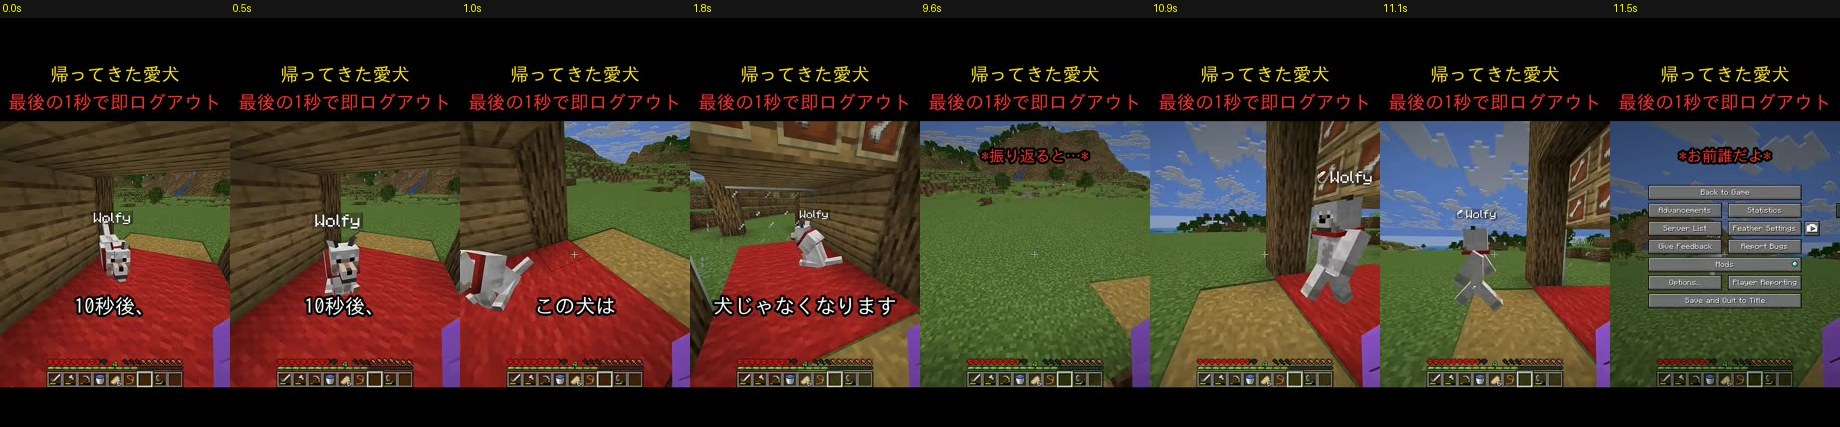
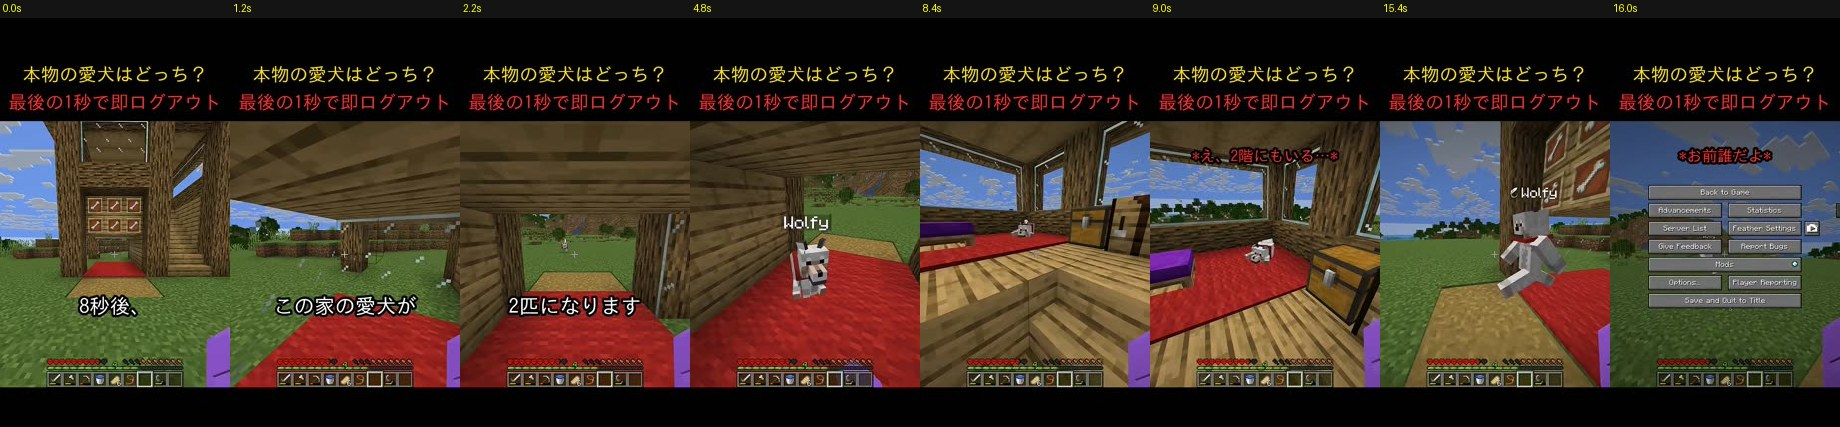
犬の動画：2段のオチ（2階にもう1匹）に合わせて、切らずにフックを作り直す
- 0秒から切らずに使う（外から来る・1階に座らせる・2階があるが見えないと1段目が伝わらない）
- ナレーション「8秒後、この家の愛犬が2匹になります。」（8.3秒に2匹目・8.65秒に重低音）
- 上部タイトル「本物の愛犬はどっち？／最後の1秒で即ログアウト」

Claude-Session: https://claude.ai/code/session_017tgZ3MWPtVU5p7tPVej3Ej

diff --git a/tools/dog_cut.py b/tools/dog_cut.py
@@ -6,12 +6,18 @@
 中身（元の秒）：
 - 0.0〜4.4  骨を飾った犬小屋に入り、外を見て犬を待つ（犬は2.4秒ごろ遠くに小さく出る）
 - 4.44     名札「Wolfy」の犬が入ってくる。4.6 で座らせる。4.7〜5.0 こちらを向いて座る
-- 8.25〜10.75 寝室。犬は赤いじゅうたんで寝ている
+- 7.4〜8.2  階段で2階へ（1階の犬は座ったまま）
+- 8.3〜10.75 2階のベッドの横に、もう1匹「Wolfy」が寝ている（本物）。8.65・9.7 に重低音
 - 12.5〜14.85 外に出て野原を見る → 14.85 振り返る
 - 15.30    犬が2本足で立ち上がり、人のように走って逃げる（叫び声のような音。BGM の和音もここで変わる）
 - 15.85    メニューを開いて「セーブしてタイトルへ」→ 16.15 タイトル画面で終わり
 
-BGM は約2.2秒ごとに和音が変わる（2.24・4.44・6.61・…・15.30）。4.44 から始めると、和音の頭から始まる。
+BGM は約2.2秒ごとに和音が変わる（2.24・4.44・6.61・…・15.30）。
+
+11/28 夜に直した（ユーザーの指摘「切ると展開が早すぎて状況が分からない」と、Gemini の指摘「2階にもう1匹いる」）：
+- **8.3秒、2階のベッドの横にもう1匹「Wolfy」が寝ている**（本物）。8.65秒と9.7秒に重低音（120Hz以下が約40dB上がる）
+- 15.30秒に2本足で立つのは、外から入ってきて1階に座らせた方（偽物）
+- 「外から来た犬を1階に座らせた」「2階がある」が分からないと1段目のオチが伝わらないので、0秒から切らずに使う
 """
 import sys
 
@@ -22,22 +28,24 @@ FADE = 0.0
 SHIFT_Y = 106   # 元の動画のゲーム画面は 216px から。上部タイトルの帯（0〜322px）に隠れないよう、下へずらす
 
 SEG = [
-    (4.44, 16.23, 1.0, '0秒：名札「Wolfy」の犬が入ってくる → 座らせる → 寝室 → 外へ → 振り返ると2本足で立って逃げる → 即セーブして終了'),
+    (0.0, 16.23, 1.0, 'そのまま：骨を飾った2階建ての犬小屋 → 外から犬が来る → 1階に座らせる → 2階にもう1匹（重低音）→ 外へ → 1階の方が2本足で立って逃げる → 即セーブして終了'),
 ]
 FREEZE = 0.0
 
-TOP = ('帰ってきた愛犬', '最後の1秒で即ログアウト')
+TOP = ('本物の愛犬はどっち？', '最後の1秒で即ログアウト')
 
 # （種類, 元の秒 or None, 新しい秒 or None, 文）
 LINES = [
-    ('ナレーション', None, (0.0, 2.4), '10秒後、この犬は犬じゃなくなります。'),
+    ('ナレーション', None, (0.0, 2.6), '8秒後、この家の愛犬が2匹になります。'),
+    # 1段目のオチ（2階にもう1匹・重低音）。2匹目だと分かるように一言だけ（Gemini 案の言い回し）
+    ('見出し', (8.65, 10.35), None, '*え、2階にもいる…*'),
     # 外を見ていて、振り返る直前。答え（15.30）の直前に「来るぞ」と知らせる。答えそのものには文字を重ねない
     ('見出し', (13.84, 15.24), None, '*振り返ると…*'),
     # メニューを開いた所でツッコミ（宝箱の「*マイクラに命捧げてて草*」と同じ、最後の一言）
     ('見出し', (15.85, 16.23), None, '*お前誰だよ*'),
 ]
 # 100万超えの3本とベリティは、ナレーションの字幕が全部白
-NARR_CHUNKS = [('10秒後、', 0.27, 'white'), ('この犬は', 0.25, 'white'), ('犬じゃなくなります', 0.48, 'white')]
+NARR_CHUNKS = [('8秒後、', 0.22, 'white'), ('この家の愛犬が', 0.40, 'white'), ('2匹になります', 0.38, 'white')]
 END = ''
 
 
@@ -68,5 +76,5 @@ if __name__ == '__main__':
             f.write('%d\n%s --> %s\n[%s] %s\n\n' % (i, fmt(s), fmt(e), kind, text))
     for s, e, kind, text in out:
         print('  %5.2f〜%5.2f  %-8s %s' % (s, e, kind, text))
-    for name, t in [('犬が入ってくる', 4.44), ('座ってこっちを見る', 4.8), ('寝室', 8.25), ('外へ', 12.5), ('振り返る', 14.85), ('2本足で立つ', 15.30), ('メニュー', 15.85), ('タイトル画面', 16.15)]:
+    for name, t in [('遠くに犬', 2.4), ('犬が入ってくる', 4.44), ('座らせる', 4.6), ('階段', 7.4), ('2階にもう1匹', 8.3), ('重低音', 8.65), ('外へ', 13.1), ('振り返る', 14.85), ('2本足で立つ', 15.30), ('メニュー', 15.85), ('タイトル画面', 16.15)]:
         print('  %s：新 %.2f秒' % (name, to_new(t)))

diff --git a/docs/dog/plan.md b/docs/dog/plan.md
@@ -1,45 +1,43 @@
-# 犬の動画（That was not my dog）：フックと作り方（2026-11-28）
+# 犬の動画（That was not my dog）：フックと作り方（2026-11-28・夜に直した版）
 
-元の動画：16.2秒・720×1280・60fps。話し声はない（Whisper で拾えたのは雑音だけ）。上の黒帯に、元の作者の英語の字幕「That was not my dog」（not だけ赤）が焼き込まれている。
+元の動画：16.2秒・720×1280・60fps。話し声はない。上の黒帯に、元の作者の英語の字幕「That was not my dog」（not だけ赤）が焼き込まれている。
+
+> **直した理由**
+> - 前の版（4.44秒から始める・「10秒後、この犬は犬じゃなくなります」）は、**2階にもう1匹いる（1段目のオチ）を見落としていた**（Gemini の指摘で確かめた）
+> - ユーザーの指摘「切ると展開が早すぎて状況が分からない」も正しかった。2段のオチは「外から来た犬を1階に座らせた」「家に2階がある」が見えていないと伝わらない
 
 ---
 
-## 1. 中身（元の秒）
+## 1. 中身（元の秒）：オチが2段ある
 
 | 秒 | 画 | 音 |
 |---|---|---|
-| 0.0〜1.0 | 骨を6本飾った犬小屋に入る | 足音。BGM（ゆっくりした和音・約2.2秒ごとに変わる） |
-| 1.6〜4.0 | 戸口から外を見て待つ。2.4秒ごろ、遠くに犬が小さく見える | |
-| **4.44** | **名札「Wolfy」の犬が入ってくる**（和音が変わる所） | |
-| 4.6 | 腕を振る（座らせる） | |
-| 4.7〜5.0 | 犬がこちらを向いて座る | |
-| 5.1〜8.0 | 部屋を見回す。壁に骨 | |
-| 8.25〜10.75 | 寝室。犬は赤いじゅうたんで寝ている | 8.65〜10.4 に、ドアか箱のような音 |
-| 11.0〜12.25 | ベッド | |
-| 12.5〜14.85 | 外に出て、野原を見る | |
-| 14.85〜15.25 | 振り返る | |
-| **15.30** | **犬が2本足で立ち上がり、人のように走って逃げる** | **叫び声のような大きい音**（この動画で一番大きい）。和音もここで変わる |
-| **15.85** | メニューを開いて「セーブしてタイトルへ」 | |
-| 16.10〜16.23 | 「Saving world」→ タイトル画面で終わり | |
+| 0.0〜1.0 | **骨を6本飾った2階建ての犬小屋**（右に2階への階段）に入る | BGM（約2.2秒ごとに変わる和音） |
+| 1.6〜4.4 | 戸口から外を見て待つ。2.4秒ごろ遠くに犬が見え、近づいてくる | |
+| 4.44〜5.0 | 名札「Wolfy」の犬が入ってくる。4.6 で**座らせる**（1階に残る） | |
+| 5.0〜7.3 | 1階を見回す。犬は骨の壁の前に座ったまま | |
+| 7.4〜8.2 | 階段で2階へ | |
+| **8.3** | **2階のベッドの横に、もう1匹「Wolfy」が寝ている**（本物） | |
+| **8.65・9.7** | （同じ画） | **重低音**（120Hz以下が約40dB上がる。元の作者が入れた） |
+| 11.0〜13.1 | 2階の出口から外へ | |
+| 13.25〜14.85 | 野原を見る → 14.85 振り返る | |
+| **15.30** | **1階に座らせた方（外から来た方）が、2本足で立って人のように逃げる**（偽物） | **叫び声のような音**（一番大きい）。和音もここで変わる |
+| 15.85〜16.23 | 即メニュー →「セーブしてタイトルへ」→ タイトル画面 | |
 
-**オチは最後の1秒**：犬だと思っていたものが2本足で立って逃げ、プレイヤーは即ゲームをやめる。
+1段目：2匹いる（8.3秒）→ 2段目：外から来た方は犬じゃなかった（15.3秒）→ 即ログアウト
 
 ---
 
-## 2. 切り方：元の 4.44秒から始める（途中は切らない）
+## 2. 切り方：切らない（0秒から16.2秒まで、そのまま）
 
-| | 0秒から（そのまま） | **4.44秒から** |
-|---|---|---|
-| 0秒の画 | 骨を飾った犬小屋。顔も異常もない | **名札「Wolfy」の犬が入ってくる**。0.3秒で座ってこちらを見る |
-| 「この犬」と言う時、犬が見えるか | 見えない（2.4秒まで犬がいない） | 見える |
-| 長さ | 16.2秒 | **11.8秒**（宝箱 11.1秒 174.9% と同じくらい） |
-| 音のつなぎ | — | 和音の頭（4.44）から始まるので自然 |
-| オチまで | 15.3秒 | **10.9秒** |
+| 始める所 | 0秒の画 | 2段のオチが分かるか | 約束までの待ち |
+|---|---|---|---|
+| **0秒（そのまま）** | 骨を飾った2階建ての犬小屋。階段も見える | ◎ 外から来るところ・1階に座らせるところ・2階が全部見える | 8.3秒（ベリティは「5秒後」→ 実際は7.0秒で、視聴を継続 81.4%） |
+| 3.75秒 | 戸口に小さく犬 | ○ 外から入ってくるのは見える。家の外観と2階は見えない | 4.6秒 |
+| 4.44秒（前の案） | 名札の犬（一番強い顔） | △ 入ってくる瞬間しか見えず、2階の犬が「別の犬」だと分かりにくい | 3.9秒 |
 
-- 骨を飾った壁は、あとの 1.8〜2.6秒と、オチの 10.9秒（立った犬の後ろ）に映るので、話は分かる
-- 途中は切らない（ユーザーの方針どおり）。終わりもタイトル画面までそのまま
-
-新しい秒の流れ：0.0 犬が入ってくる → 0.36 座ってこちらを見る → 3.8 寝室 → 8.1 外へ → 10.4 振り返る → **10.86 2本足で立つ** → 11.41 メニュー → 11.71 タイトル画面 → 11.79 終わり
+- 4.44秒からは、最初の1秒は一番強いが、2段のオチが伝わりにくくなる。オチが伝わらないと、ループもコメントも生まれない
+- 0秒の画は顔がないが、骨を並べた犬小屋は「変わった家」で目に留まる。しかも2階への階段が写っていて、1段目のオチの前振りになる
 
 ---
 
@@ -49,62 +47,69 @@
 
 | | 中身 |
 |---|---|
-| **ナレーション** | **10秒後、この犬は犬じゃなくなります。**（17字・2.4秒前後。字幕は「10秒後、」「この犬は」「犬じゃなくなります」全部白） |
-| **上部タイトル** | **帰ってきた愛犬**（黄）／**最後の1秒で即ログアウト**（赤） |
+| **ナレーション** | **8秒後、この家の愛犬が2匹になります。**（17字・2.6秒前後。字幕は「8秒後、」「この家の愛犬が」「2匹になります」全部白） |
+| **上部タイトル** | **本物の愛犬はどっち？**（黄）／**最後の1秒で即ログアウト**（赤） |
 
-- 「10秒後」→ 実際は 10.86秒に立ち上がる（0.86秒遅れ。宝箱は1.9秒、ベリティは2秒遅れ）
-- 「最後の1秒」→ 10.86〜11.79秒（立ち上がり〜タイトル画面）
+- 「8秒後」→ 8.3秒に2匹目が映り、8.65秒に重低音。**秒どおり**
+- 「最後の1秒」→ 15.30秒（立つ）〜16.23秒（タイトル画面）
 
-### 3-2. ナレーションの候補の採点（`docs/noads/hook_check.md` の A〜H）
+### 3-2. ナレーションの採点（`docs/noads/hook_check.md` の A〜H）
 
-| 候補 | A 0秒の画 | B 1秒で通じる | C 絞らない | D 主語 | E 短い約束 | F 答えを言わない | G 短い | H おかしさ | 計 |
+| 候補 | A 0秒の画 | B 1秒 | C | D 主語 | E 約束 | F 答え | G 長さ | H おかしさ | 計 |
 |---|---|---|---|---|---|---|---|---|---|
-| **10秒後、この犬は犬じゃなくなります。** | ○ | ○ | ○ | ○ | △（10秒。守られる） | ○ | ○ 17字 | ○（犬が犬じゃなくなる） | **7.5** |
-| この犬、犬じゃありません。 | ○ | ◎（1秒で矛盾が伝わる） | ○ | ○ | × | ○ | ◎ 11字 | ○ | 7 |
-| 10秒後、この犬の正体に鳥肌が立ちます。（宝箱の型） | ○ | ○ | ○ | ○ | △ | ○ | ○ 18字 | △（よくある言い方） | 6.5 |
-| この犬、10秒後に正体を現します。 | ○ | ○ | ○ | ○ | △ | ○ | ○ | △ | 6.5 |
-| この犬、うちの犬じゃありません。（元の字幕の訳） | ○ | ○ | ○ | ○ | × | ○ | ○ | △ | 6 |
+| **8秒後、この家の愛犬が2匹になります。** | △（顔なし。変わった家） | ○ | ○ | ○（この家＝0秒に映っている家） | ○（中身が具体的で、秒どおり） | ○（どっちが偽物か・2本足は言わない） | ○ 17字 | ○（犬が2匹になる） | **7.5** |
+| 8秒後、この愛犬のせいで背筋が凍ります。（Gemini） | △ | ○ | ○ | △（犬が映るのは2.4秒から） | △（「背筋が凍る」は気持ちで、確かめられない） | ○ | ○ 18字 | △（よくある言い方） | 6 |
+| 10秒後、この犬は犬じゃなくなります。（前の案・4.44秒から） | ○ | ○ | ○ | ○ | ○ | ○ | ○ | ○ | 8 だが、1段目を使っていない・展開が早い |
+| この犬、犬じゃありません。 | △ | ○ | ○ | △ | × | ○ | ○ | ○ | 6 |
 
 決め手：
-- ベリティ（視聴を継続 81.4%・平均視聴割合 93%）と同じ「N秒後、この〇〇は…」の形
-- 「犬じゃなくなる」は、何が起きるかを言わずに、「変わる」ことだけを約束する。見る人は犬をずっと疑って見る
-- 次点の「この犬、犬じゃありません。」は、1秒で矛盾が伝わる一番短い形（階段の「マイクラの階段は／おかしい」と同じ）。秒の約束を入れたくないときはこちら
+- **約束の中身が具体的で、確かめられる**（2匹になる → 本当に2匹出る）
+  - 宝箱は「5秒後」→ 6.9秒、ベリティは「5秒後」→ 7.0秒で、具体的な秒が当たった
+  - みんくらで「数秒後」の2本は 0.17・0.36
+- 「どっちが本物か」「2本足」は言わない（Dream：ひねりのあるオチ 116万／予告どおり 36万）
+- 「この家の」で、0秒に映っている家を指す（宝箱「この男の」、ベリティ「このベリティ」と同じ）
 
 ### 3-3. 上部タイトルの理由
 
-- 1行目「帰ってきた愛犬」だけで、何の話か分かる（100万超えの3本と同じ。名前「Wolfy」は出さない＝みんくらで名前は弱い）
-- 2行目「最後の1秒で即ログアウト」：ベリティの「最後の1秒で絶叫」と同じ形。オチ（2本足）は言わず、プレイヤーの反応だけを約束する（宝箱の「号泣する男」と同じ）
-- 1行目の「愛犬」と、ナレーションの「犬じゃなくなります」が食い違う。そのずれが「何が起きるの？」になる
+- 1行目「本物の愛犬はどっち？」
+  - みんくらの謎の型（正体・誰・増殖）は8本で相対の中央値 **2.48**（全体 1.02）。SMP の「ホンモノかチーターか」は **10.32**
+  - 上部タイトルの「？」は SMP 1.42・みんくら 1.31
+  - ナレーション（2匹になる）が問いの前提を作り、答えは最後まで出ない（ベリティのときの「問いがすぐ答えられて空回り」にならない）
+- 2行目「最後の1秒で即ログアウト」：ベリティの「最後の1秒で絶叫」（視聴を継続 81.4%）と同じ形。オチの中身（2本足）は言わず、反応だけ約束する
+- Gemini 案の「愛犬を小屋に入れた直後／2階で凍りついた」
+  - 1行目が途中で切れた文で、1行だけでは何の話か分からない
+  - 2行目は1段目の場所（2階）を先に言ってしまう
+  - 2段目（最後）への約束がない
 
 ---
 
 ## 4. その他
 
-| | 中身 |
-|---|---|
-| 元の英語の字幕 | 上の黒帯で必ず隠す（元の動画で上から166〜215px） |
-| 見出し（赤・任意） | 9.4〜10.8秒「\*振り返ると…\*」（答えの直前に「来るぞ」と知らせる）。11.41秒〜最後「\*お前誰だよ\*」（メニューの上で最後のツッコミ） |
-| 答え（10.86〜11.4秒） | **文字も声も重ねない**。元の叫び声のような音をそのまま聞かせる（宝箱も答えの画には文字なし） |
-| 音 | ナレーションの間（0〜2.5秒）だけ元の音を下げる。元の音は −19.5 LUFS と小さめで、最後の叫びが一番大きい（−1.4 dBFS）ので、ほかは下げなくてよい |
-| ドクタードーナツ | この動画への本人の反応があれば、左上に、ベリティと同じ大きさで。犬は真ん中か右にいるので隠れない。水色の字幕は、本人が実際に言った言葉の訳だけ |
-| 投稿タイトル | **マイクラで帰ってきた愛犬が怖すぎる…**（18字。「マイクラ」入り・「…」・上部タイトルと「愛犬」が重なる・？／結果／末路／名前なし・ネタバレなし）。次点：マイクラの愛犬の正体が怖すぎる…（16字） |
-| 固定コメント | 本物のWolfyはどこに行ったんだ… |
-| カバー | 0.5秒のコマ（犬が座ってこちらを見る・名札入り） |
+| | 中身 | 理由 |
+|---|---|---|
+| 元の英語の字幕 | 上の黒帯で必ず隠す（上から166〜215px） | 英語が読める人に0秒でオチの手がかりを与える（Gemini と同じ意見） |
+| 見出し①（赤） | 8.65〜10.35「\*え、2階にもいる…\*」（Gemini 案の言い回し） | 2匹目だと一瞬で分かるように。重低音と同時に出す |
+| 見出し②（赤・任意） | 13.84〜15.24「\*振り返ると…\*」 | 2段目の直前に「来るぞ」と知らせる |
+| 2本足で立つ所（15.30〜15.85） | **文字も声も重ねない** | 宝箱も答えの画には文字なし。Gemini 案の「\*二足歩行で逃走\*」は、答えを文字で言ってしまう |
+| 見出し③（赤） | 15.85〜最後「\*お前誰だよ\*」（メニューの上） | 上部タイトルの問い（本物はどっち？）への答えを、ツッコミで言う |
+| 音 | ナレーションの間（0〜2.6秒）だけ元の音を40〜50%に。重低音（8.65・9.7）と叫び（15.30）はそのまま | 元の音は −19.5 LUFS と小さめで、オチの音が一番大きい |
+| ドクタードーナツ | この動画への**本人の反応があれば**、左上に（0秒に顔が入るのは強い：宝箱 83%・ベリティ 81.4%）。無ければ入れない | Gemini の「ホラーの没入感が落ちる」もあり得るが、データでは0秒の顔が効いている。本人の反応でない顔は付けない |
+| 投稿タイトル | **マイクラで帰ってきた愛犬が怖すぎる…**（18字・Gemini と同じ） | 16〜18字・「マイクラ」・「…」・上部と「愛犬」が重なる・ネタバレなし |
+| 固定コメント | **1階と2階、どっちが本物だと思った？** | 上部タイトルの問いの続き。答えるコメントが付きやすい。Gemini 案（二足歩行で〜草）は、先にコメントを開いた人にオチを見せてしまう |
+| カバー | 4.8秒のコマ（名札の犬がこちらを向いて座る） | 顔のあるコマ |
 
-見本：`CUT_MODULE=dog_cut python3 tools/noads_sample.py <元の動画> <ナレーションの wav> <作業フォルダ> <出力.mp4>`（切り方と字幕の秒は `tools/dog_cut.py`）
+見本：`CUT_MODULE=dog_cut python3 tools/noads_sample.py <元の動画> <ナレーションの wav> <作業フォルダ> <出力.mp4>`（`tools/dog_cut.py`）
 
 ---
 
 ## 5. 見込み
 
 - 強い所：
-  - 11.8秒と短い
-  - ひねりのあるオチが最後の1秒にある（Dream：ひねりあり 116万／予告どおり 36万）
-  - 犬は誰でも分かる（ベリティのような名前の壁がない）
-  - 話し声がないので、訳の手間もずれもない
+  - 16.2秒と短い
+  - オチが2段（1段目は8秒で約束どおり、2段目は最後の1秒）
+  - 犬は誰でも分かる
+  - 「どっちが本物？」で、見終わったあとにもう一度見たくなる（ループ）、コメントしたくなる
 - 弱い所：
-  - オチが0.5秒の動きだけ。見逃すと分からない
-    - そのため、10.86秒には文字を重ねない
-    - 「最後の1秒」で、どこを見ればいいかを先に言っておく
-  - 中盤（3〜8秒）は犬が寝ているだけで、何も起きない。ナレーションの約束（10秒後）と BGM で持たせる
-- ベリティの結果（16時間で33.1万・視聴を継続 81.4%）と同じ作りなので、視聴を継続は75〜82%、平均視聴割合は宝箱（11秒・174.9%）に近い130〜170%とみる。**推定で、保証はできない**
+  - 0秒に顔がない（ドクタードーナツの反応が無い場合）
+  - 2段目の動きが0.5秒しかない
+- 視聴を継続は 72〜80%、平均視聴割合は階段（15.3秒・141.9%）くらいの 120〜160% とみる（Gemini も 120〜160%）。**推定で、保証はできない**
